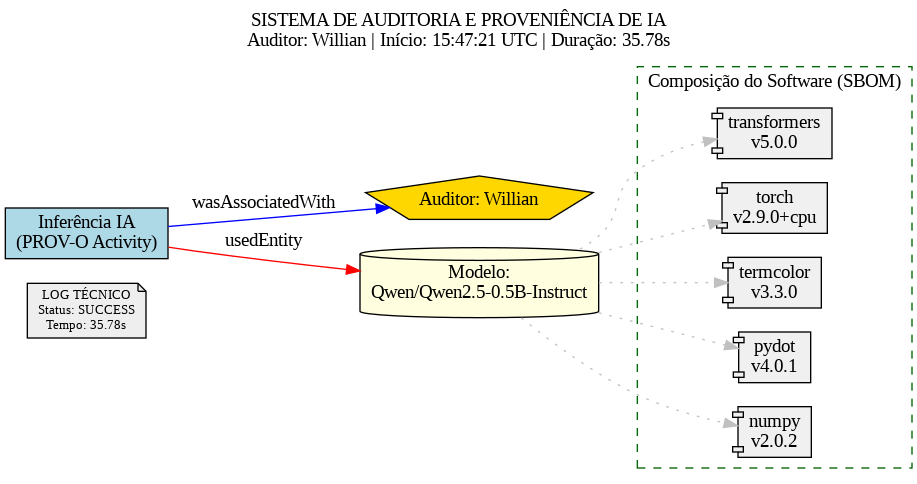
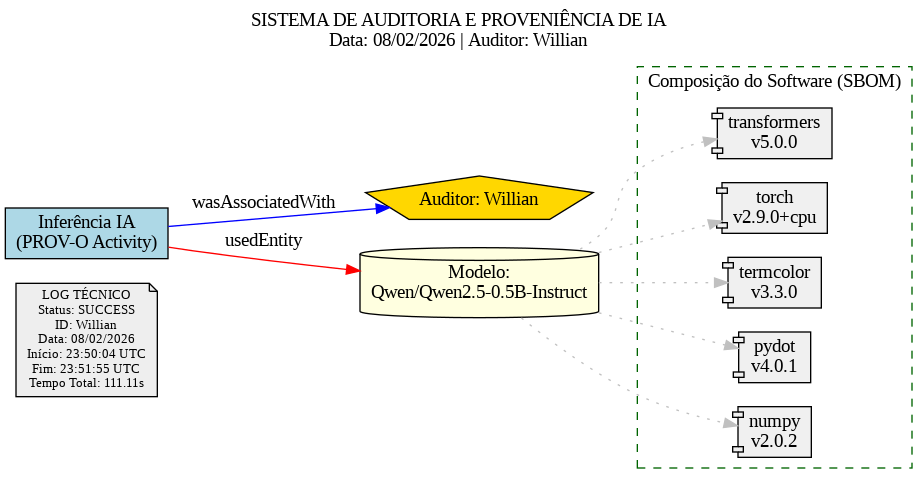
Add files via upload

Changed region(s): [[0.0, 0.5888, 0.1832, 0.8368], [0.2748, 0.062, 0.7328, 0.093]]

diff --git a/relatorio_executivo.md b/relatorio_executivo.md
@@ -8,13 +8,13 @@
 
 ## ⚡ Performance e Integridade
 - **Status:** `SUCCESS`
-- **Tempo de Resposta:** 35.78s
-- **Início (UTC):** 15:47:21
-- **Término (UTC):** 15:47:57 UTC
+- **Tempo de Resposta:** 111.11s
+- **Início (UTC):** 23:50:04
+- **Término (UTC):** 23:51:55 UTC
 
 ## 🔍 Detalhes da Interação
 ### Entrada (Prompt):
-> Quantas unidades federativas tem o Brasil?
+> Cite o nome de 3 estados brasileiros
 
 ## 📦 Inventário de Software (SBOM)
 | Componente           | Versão             | Status                 |
